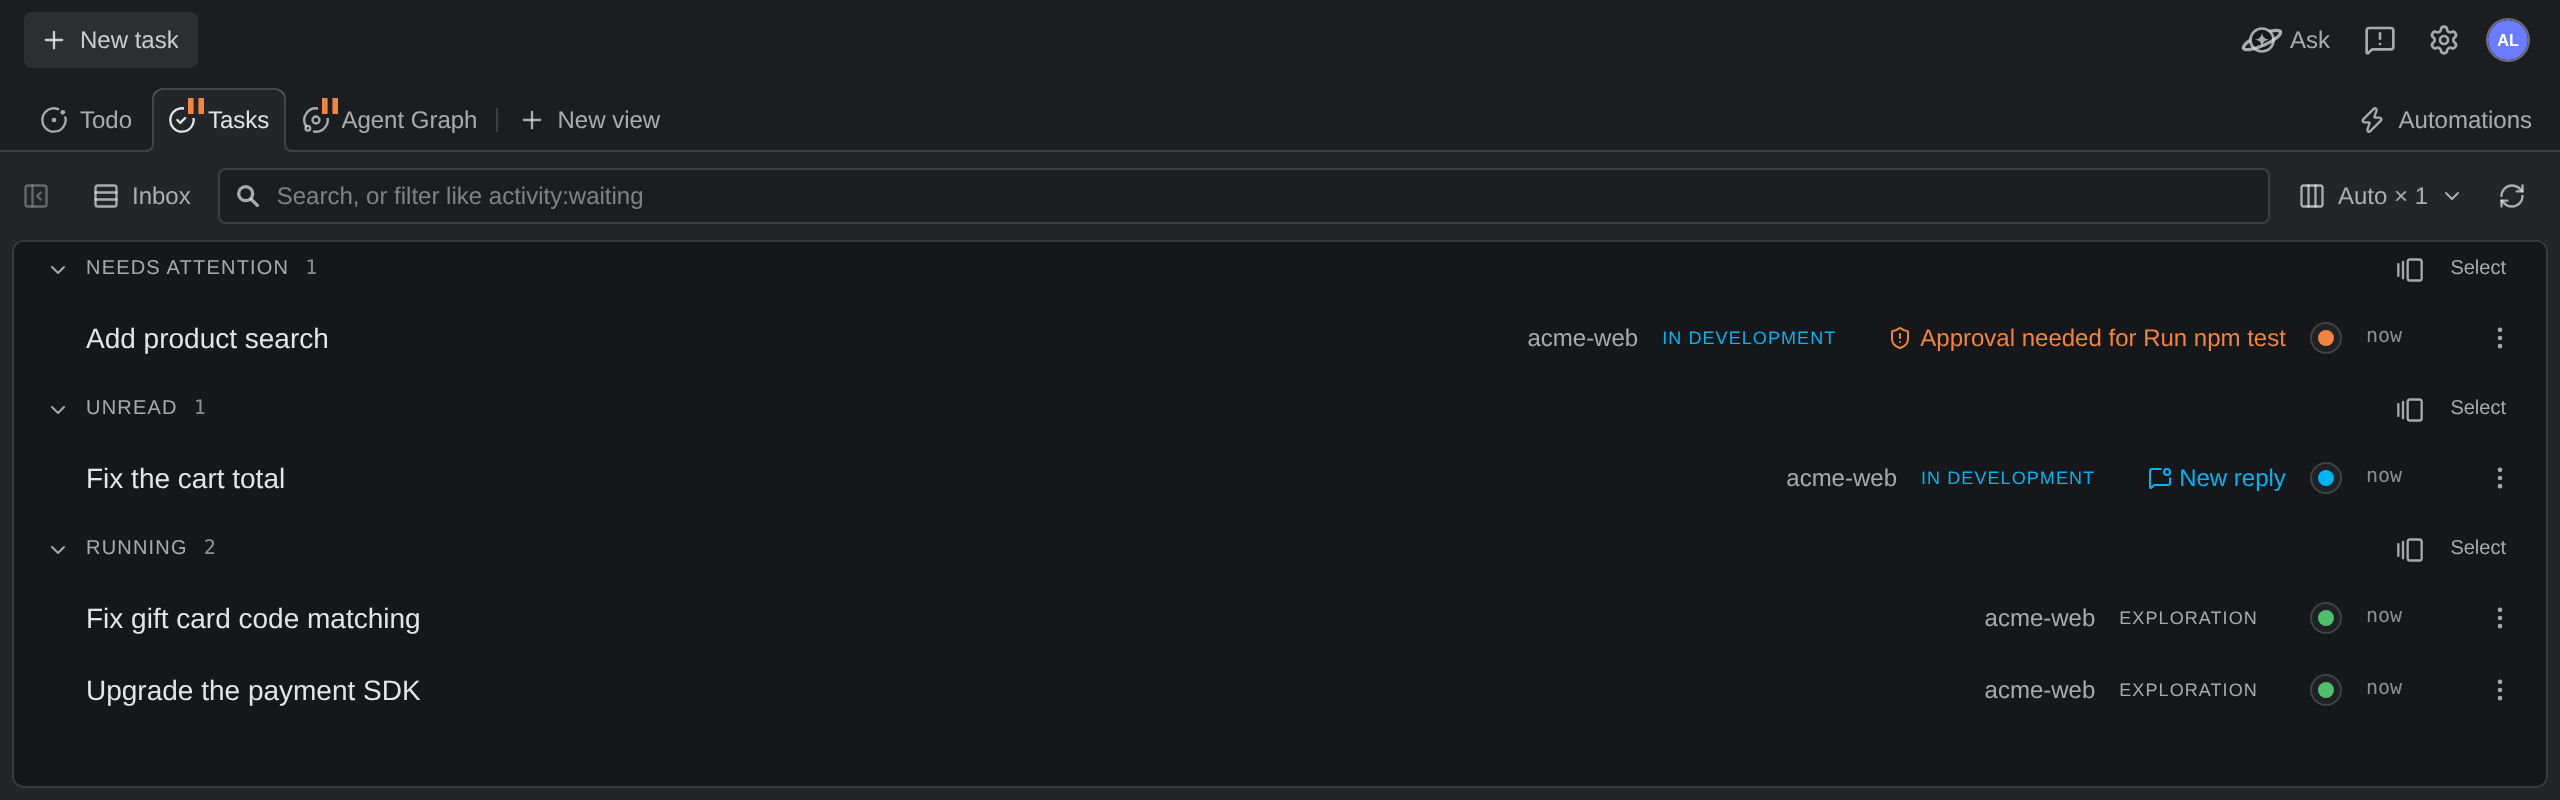
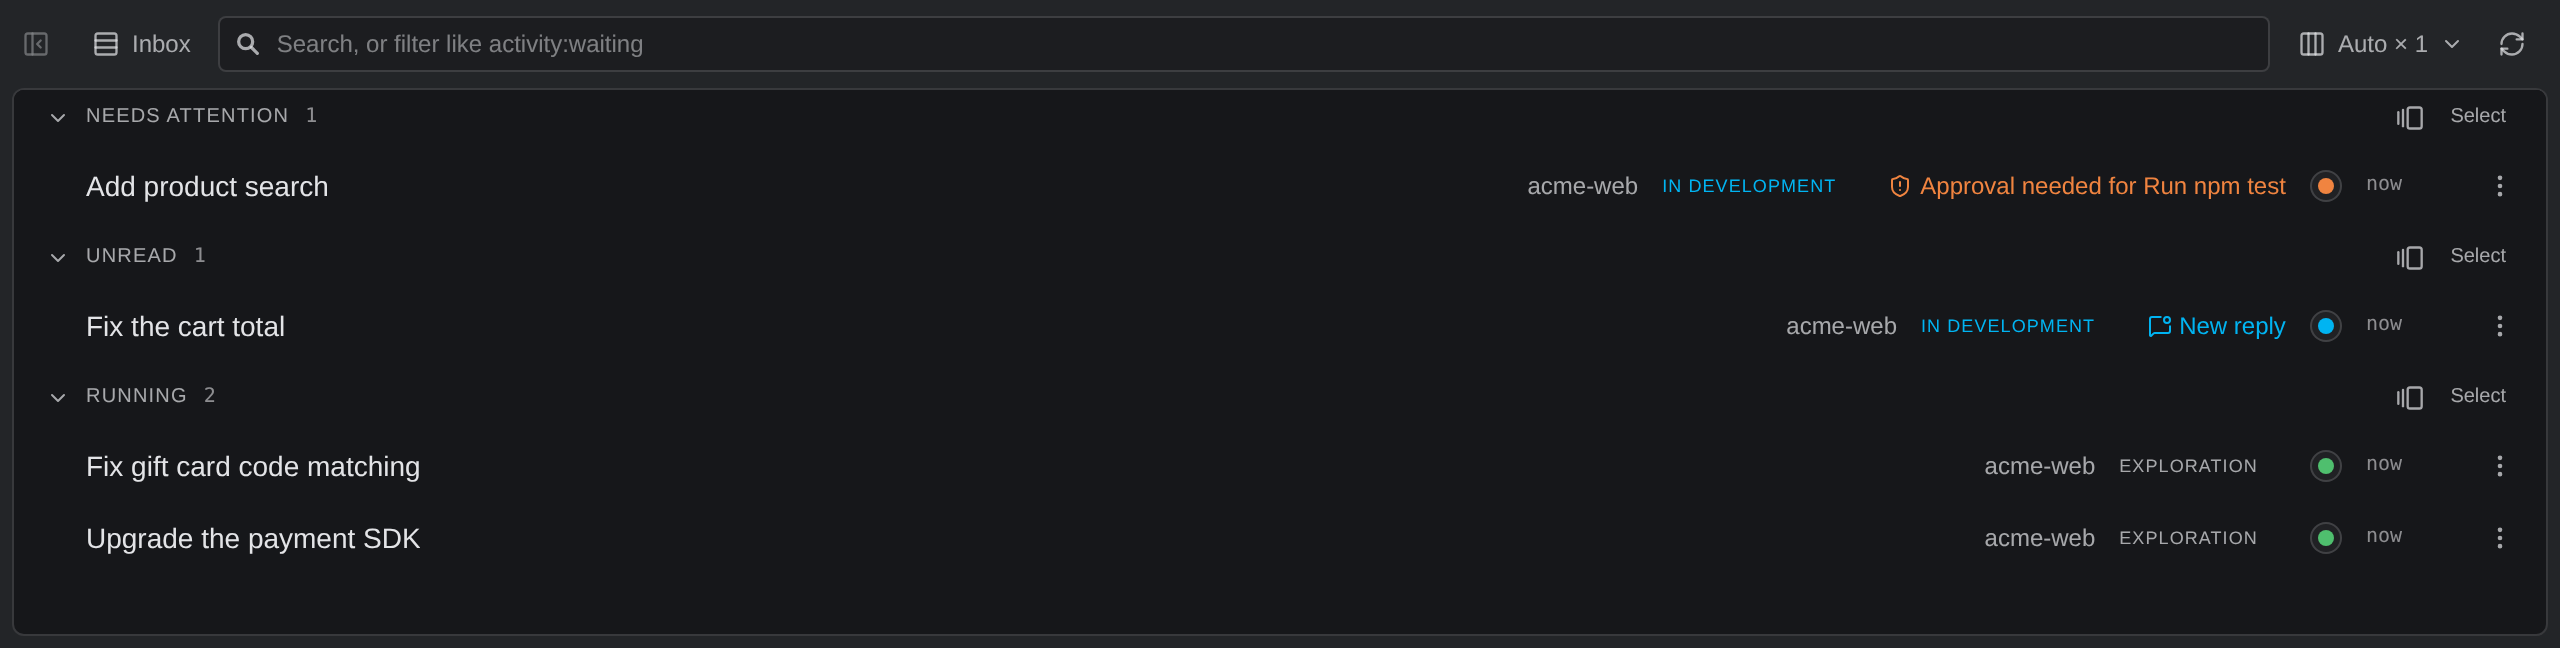
docs(kepler): ring the agent labels on the Windows capture; crop the Inbox capture to the list

diff --git a/kepler/kepler-run-coding-agents-in-parallel-on-windows.md b/kepler/kepler-run-coding-agents-in-parallel-on-windows.md
@@ -58,9 +58,9 @@ Kepler runs directly on Windows. You do not need WSL, a virtual machine or a Mac
 
 <figure style="text-align:center">
   <a href="/wp-content/uploads/windows-dashboard-agents-nov-2026@2x.png" target="_blank" rel="noopener noreferrer">
-    <img src="/wp-content/uploads/windows-dashboard-agents-nov-2026@2x.png" class="help-center-img img-bordered" alt="Kepler on Windows with 2 tasks running on the acme-web repo. The Tasks list shows Add product search and category filters and Apply discount codes to cart total under Running. Side by side, a Claude Code session with Opus 5.5 writes a reply and a Codex session with 6.1 Sol runs npm test. The Windows minimize, maximize and close buttons are at the top right.">
+    <img src="/wp-content/uploads/windows-dashboard-agents-nov-2026@2x.png" class="help-center-img img-bordered" alt="Kepler on Windows with 2 tasks running on the acme-web repo. The Tasks list shows Add product search and category filters and Apply discount codes to cart total under Running. Side by side, a Claude Code session with Opus 5.5 writes a reply and a Codex session with 6.1 Sol runs npm test. A teal ring marks the agent and model label in each panel: Default · Opus 5.5 under the Claude Code session and 6.1 Sol Medium under the Codex session. The Windows minimize, maximize and close buttons are at the top right.">
   </a>
-  <figcaption style="text-align:center; color:#888">Claude Code and Codex running side by side in Kepler on Windows, each in its own task.</figcaption>
+  <figcaption style="text-align:center; color:#888">Claude Code (Opus 5.5) and Codex (6.1 Sol) running side by side in Kepler on Windows, each in its own task.</figcaption>
 </figure>
 
 ***
